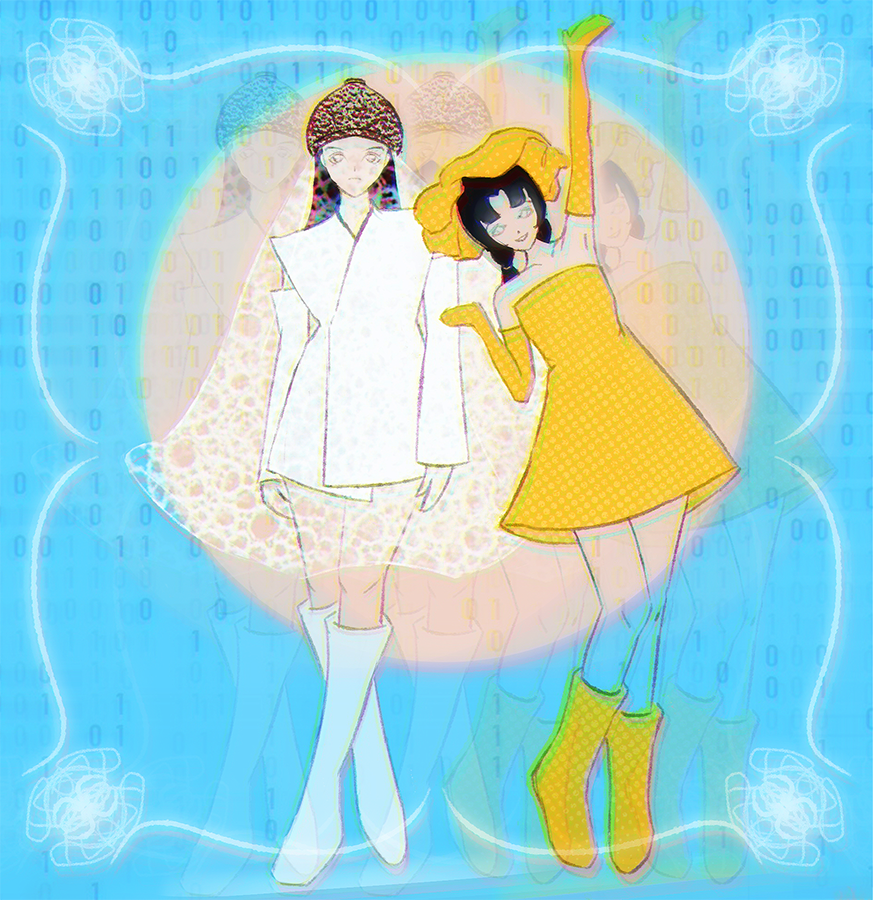
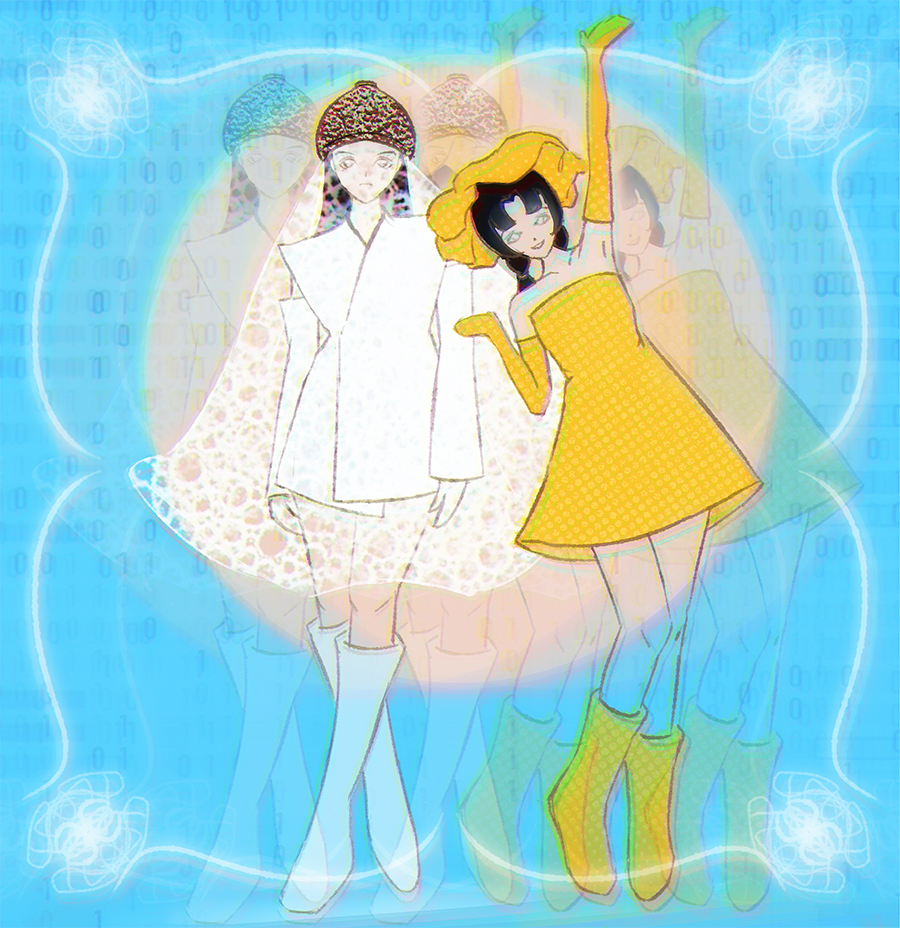
111

diff --git a/novel-a/chapter-030.html b/novel-a/chapter-030.html
@@ -21,7 +21,130 @@
     </header>
 
     <script type="text/plain" id="chapter-text">
-PASTE CHAPTER HERE
+“好吧，看来这个游戏对你们来说太简单。这样，我给你们推荐另一个考验你们四个人之间默契的游戏，”九枢对风和光道，“如果配合得好，一轮就能每人各拿到49枚雨滴。”
+
+“好。”万秋率先答应。
+
+风和光自然也同意；宁涉雪因为好奇所以也不反对；而金同尘本就是随便来玩点什么，全无异议。
+
+“这个游戏规则很容易。你们不能以任何方式交流，也看不到其他人的回答。”随着九枢的话，四个女孩又进入独立空间内，“每一轮我会给出一个目标数字，然后你们各自有一分钟时间提交一个整数——可以重复，没关系，如果4个数加起来正好等于我给的数，这轮就过了。连续过7轮，你们就赢。”
+
+……这个和默契没关系吧？
+
+宁涉雪无语地看着屏幕上一个大大的2，数字下只有一个输入框和提交按钮。
+
+她不可能知道其他3人会写什么，所以也无法配合。没想到九枢报复心这么重，女孩左思右想也找不到任何获胜方法，只好随机提交数字；九枢每轮给的数字也很随机，从正三位数到负三位数都有。
+
+7分钟之后，这个无名且无聊的游戏结束。宁涉雪看到表姐果然一脸不服气；金同尘也微微皱眉；万秋倒照常面无表情；九枢却微笑道，“恭喜你们，全部通过。”
+
+“这不公——等等，你说什么？”风和光茫然地看着一大堆水滴飞来自己面前，“我们赢了？这也可以赢？”
+
+“为什么不能？规则说得很清楚。”九枢的虚拟形象渐渐淡化直至消散，“Good luck. And take care.”
+
+万秋心照不宣，但维持沉默。
+
+宁涉雪沉浸在不可思议中，第一反应是计算概率，可无需计算也能知道无限接近于0。不过，总不会是万秋做到的；没人能做到这样的事。难道九枢故意放水？灵网助手就是这样乐于助人？
+
+风和光恍恍惚惚站起身，才回神似地对若有所思的金同尘道，“同尘，你这49枚都给我怎么样？”
+
+“你拿去吧，反正我什么也没做。”金同尘又多拿出一枚一起推给风和光，“这样你就刚好够了。不过，我很想知道你们是怎么赢的，可以告诉我吗？”
+
+“也许是我运气好而已，再加上朋友们的一点点帮助……”
+
+然而风和光几人走到奖品兑换处时，许无忧正在把SSS奖品递给庚寅班的纪微缈。
+
+“你们只晚了一秒钟，小凤凰。”助教遗憾地感慨风和光运气欠佳，“刚刚纪同学她们在番摊那里连赢三把翻倍赌注。我没听说过这么短时间拿下3S的，你们都破纪录了哦。你想兑换SS奖品吗？也很好看。”
+
+纪微缈歉意地对风和光笑笑，接过许无忧递来的素纸伞。
+
+这把伞闭合时看起来很普通，女孩将它撑开打在头顶也未感觉到独特之处，但围观的学生有不少都惊呼或感叹。
+
+伞上一寸的雨雾被按下慢放键似地缓缓凝落，犹如一颗颗小水晶球般倒映出周遭景色，接触伞面后漾起圈圈涟漪，层叠明灭间交织成无数灿烂图案。
+
+万秋无意关注神奇雨伞，思忖着今天的事与之前灵理课的提醒有什么区别。她很快想到一个假设，便对强作欢颜的朋友耳语两句。
+
+“真的吗？你怎么知道——哎呀，我不该问的。好吧，既然这样，这次我们不如换两把567的SS……等等，好像不够，那就两把S？345x2是……690，这个够！剩下的雨滴送给同尘吧。”
+
+鸡油菌于是又快活地在雨中穿梭。
+
+“谢谢，不过我要这些雨滴也没什么用。刚刚和你们在一起玩得很开心，对我来说这就是SSS奖品。”
+
+风和光没料到金同尘如此深谙说话的艺术，大有棋逢对手之感，“我们和你在一起也玩得很开心呀，不如我给你兑换一个77滴的C级伞吧，就当学宫第一个假日的纪念。”
+
+许无忧表扬风和光从挫折中快速恢复的豁达心性，在听说这把伞要送给盲人同学后还特意在工笔贴箔绢伞外沿钩上一圈小风铃。
+
+应付完金同尘，风和光又将S级伞递一把给表妹，“雪儿，谢谢你帮我攒雨滴。”
+
+“啊，这个是给我的？”宁涉雪受宠若惊，“我以为你和万秋一人一把……”
+
+“我怎么可能忘记给你呢？”风和光笑道，“我们一起去那边自拍怎么样？”
+
+一旁万秋对这样的分配也毫无意见，并用剩下的十枚雨滴在朋友胸前重新钉出一株小小的蘑菇图案。
+
+好吧，原来万秋其实人挺好的。宁涉雪快乐地摆弄属于自己的S级奖品，耐心等待表姐整理服饰。
+
+“可是我从来……清明……要怎么才能赢呀？”
+
+“清明运动会公布规则了吗？”宁涉雪听到旁边两人的只言片语后打开学域，“奇怪，我这里刷不出更新。”
+
+校园日历的清明标注着无课且有一场运动会，具体规则却一直没公布。
+
+本已习惯表妹耳聋的风和光第一次意识到学宫的助听器比尘世的好得多，连忙掩饰道，“没有没有，我们只是在说清明不知道会有什么奖品，也不知道会比什么，这个节日在尘世一般都是踏青嘛。”
+
+“噢，我希望别太吓人，不要有，鬼魂之类。”
+
+“那你今天还选这个恐怖游戏，刚看到卡牌时真把我吓了一跳。不过这种全区比赛肯定不会有太多恐怖元素啦，走吧，我们去拍照。你说这个伞上嵌了这么多宝石但又这么轻，不会是塑料吧，但看着又蛮精致的……”
+
+宁涉雪的注意力就此彻底离开今天观察到的种种奇迹。当充实快乐的假日结束，再经过周二一整天课程后，女孩连万秋在各个游戏中的具体表现都已印象模糊；记忆宛如雨水一般悄无声息地在一昼夜间蒸发——总之既然最后没赢到SSS奖品，应该也没有很厉害？
+
+周三午休时，宁涉雪与表姐的其余好朋友们在坊市的一家饮品店打发时间。金同尘恰好也在，并端着一杯杨梅冰茶询问女孩是否可以拼一张桌。宁涉雪倒是对金同尘前日的表现细节尚记得清楚，因此虽然有点不情愿分享个人空间但也没有拒绝。
+
+何况她还是视障人士。宁涉雪想，但愿她不是因为这个才坐到这里的。不过，现在学生里只有表姐知道自己的听力问题，自己戴口罩的原因又是过敏，那也许金同尘选择此处并非有什么深意。
+
+“我听她们说，你是小凤凰的表妹？”
+
+宁涉雪点头，为这个身份带来的完美伪装感而满意。
+
+“你们在尘世是一起长大的吧？真好，能一起来学宫，还恰好在一个学区。”
+
+不，其实我只认识她没多久，只是表姐确实对我很亲热；我们从小不认识是因为……女孩想了想，认为解释一大堆很麻烦，她不太有信心也不太习惯说这么多话，于是含糊道，“啊，唔，是挺巧的。”
+
+“她在尘世也这么受欢迎吗？她适应这里好像很快。”
+
+这个问题不难。宁涉雪点头。
+
+“感觉除了同学，助教们也都很喜欢她，之前她和家人的关系应该也很好吧，真不知道她为什么也会想来九州。”
+
+“我表姐，当时以为是做梦，所以。”
+
+“嗯，她好像是这么说的。”金同尘笑了笑，“她妈妈如果知道，应该会很伤心吧？对她来说，好像女儿就是她的一切……”
+
+宁涉雪对姑姑不甚了解，只能胡乱点点头。
+
+“说起来，她爸爸妈妈是做什么的呀？”
+
+“我姑姑在我爸爸的公司上班，我姑夫，我没见过。”
+
+“好吧，那小凤凰有什么喜欢音乐的很好的朋友吗？”
+
+人类之间的聊天真是奇怪，宁涉雪苦恼地想，我就算和表姐一起长大也不一定回答得出。表姐的各种朋友何止上百，谁会知道里面有没有喜欢音乐的？喜欢音乐又算是什么很明显的特点吗？
+
+金同尘似乎从停顿中察觉到宁涉雪的茫然，便已了然问题的答案——那就是没有。
+
+“我下次，帮你问问。”宁涉雪最后不得不承认自己不知道。
+
+“没关系，只是偶然想到的，不知道也无所谓。前天和你们两个玩得很开心，就很想多了解一些你们的事。”
+
+金同尘其实并不记得雨水那天的游戏细节，不过她还有其他的话题可以降低宁涉雪的戒心。她们讨论起下午社会课会学什么——庚子与庚辰每周三一起上课。
+
+这个话题友好很多，对宁涉雪来说，人类之间的聊天又变得不那么诡异，如果金同尘临走时没有突然说道：
+
+“你和小凤凰其实不是一起长大的，对吗？”
+
+“……呃，不算吧，大概。”
+
+We read the world wrong and say that it deceives us.
+
 </script>
 
     <article class="reader" id="reader"></article>

diff --git a/novel-a/chapter-001.html b/novel-a/chapter-001.html
@@ -29,7 +29,7 @@
 
 最开始不是这样。
 
-宁蓁第一次来莫家是2012年的平安夜。彼时扈城青春靓丽，处处灯火笑闹，但她的人生却骤然陷入深谷：母亲因哥哥要求断绝关系而悲怒昏厥；丈夫不顾刚出生不到半月的女儿，坚持离婚；一直做主妇的她乍然要担负祖孙三人的生计，不得不拖着产后虚弱的身体四处求职。
+宁蓁第一次来莫家是2012年的平安夜。彼时扈城青春靓丽，处处灯火笑闹，但她的人生却骤然陷入深谷：母亲因哥哥要求断绝关系而悲怒昏厥；丈夫不顾刚出生不到一个月的女儿，坚持离婚；一直做主妇的她乍然要担负祖孙三人的生计，不得不拖着产后虚弱的身体四处求职。
 
 靠本科同学内推，宁蓁两周后拿到一份支持远程办公的清闲工作，但薪水极低。与此同时积蓄已被母亲的住院费耗去大半。
 

diff --git a/novel-a/chapter-029.html b/novel-a/chapter-029.html
@@ -183,11 +183,11 @@
 
 “我是外包人员，不能影响对弈的公平性。”
 
-“好了好了，告诉你也没什么。我和阿秋从小就一起长大的啊，第一轮看到那张图就知道是她。她肯定也知道我是谁，对吧？我出牌的时候就知道她能认出我。”
+“好了好了，告诉你也没什么。我和阿秋是朋友嘛，第一轮看到那张图就知道是她。她肯定也知道我是谁，对吧？我出牌的时候就知道她能认出我。”
 
 万秋点头。
 
-“万秋同学，你能认出1号是因为你们从小认识，那么为什么会排除2号和5号呢？难道你们四个都是一起长大的？”
+“万秋同学，你能认出1号是因为你们是朋友，那么为什么会排除2号和5号呢？你和她们都是好朋友？”
 
 “不是。”
 

diff --git a/works.html b/works.html
@@ -17,7 +17,7 @@
 
   <script>
     const totalChapters = 343;
-    const publishedThrough = 29;
+    const publishedThrough = 30;
     const directory = document.getElementById("chapterDirectory");
 
     for (let i = 1; i <= totalChapters; i++) {
